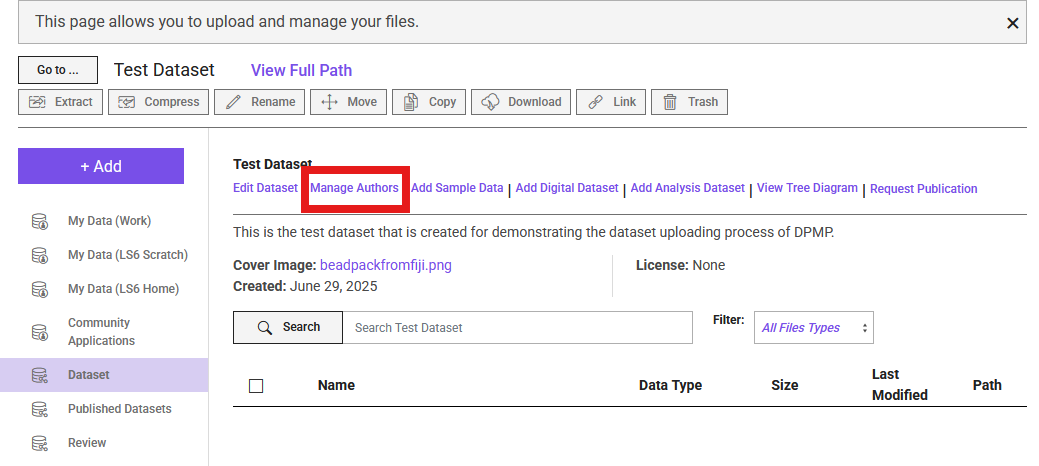
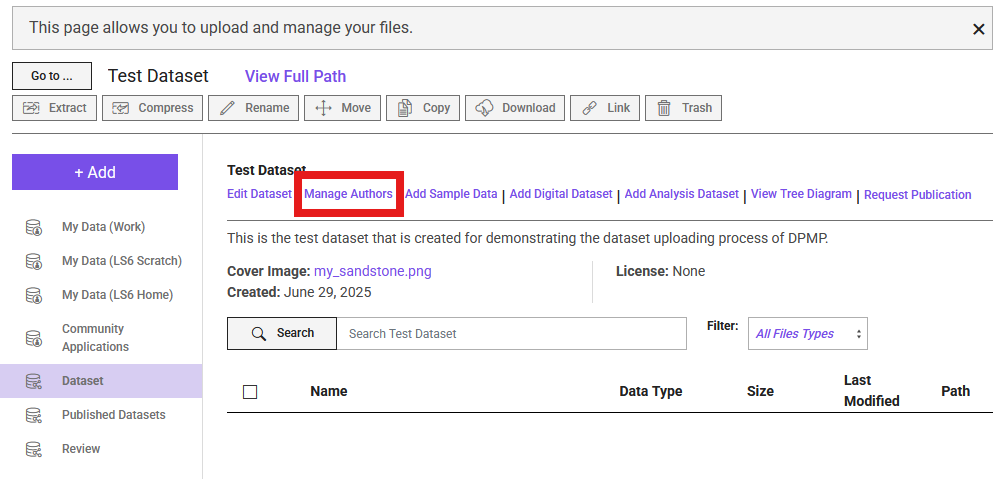
Updating pages (#19)
* changed project instances to dataset throughout different pages

* updated the data upload process screenshots

* changed project instances to dataset

diff --git a/docs/upload_data.md b/docs/upload_data.md
@@ -3,7 +3,7 @@
 This guide provides step-by-step instructions for uploading your porous media datasets to the Digital Porous Media Portal (DPM). Following these steps helps ensure your data is well-described, discoverable, and usable by the community.
 
 ## Data Model
-Before you begin uploading, it's helpful to understand that the Digital Porous Media Portal (DPMP) uses a **data model** to organize and describe datasets. This data model defines how your files, projects, and metadata are structured within the portal. **Mandatory** metadata fields are marked with asterisks (\*), indicating they are required for publication and discoverability. Some fields are highlighted in **green**—these represent updates or new fields added since the previous model. Metadata requirements may vary depending on the data type (e.g., image, raw binary, processed data). By following this model, DPMP ensures that all datasets are consistently described, making them easier to search, interpret, and reuse.
+Before you begin uploading, it's helpful to understand that the Digital Porous Media Portal (DPMP) uses a **data model** to organize and describe datasets. This data model defines how your files, datasets (previously, in Digital Rocks Portal, datasets were called projects), and metadata are structured within the portal. **Mandatory** metadata fields are marked with asterisks (\*), indicating they are required for publication and discoverability. Some fields are highlighted in **green**—these represent updates or new fields added since the previous model. Metadata requirements may vary depending on the data type (e.g., image, raw binary, processed data). By following this model, DPMP ensures that all datasets are consistently described, making them easier to search, interpret, and reuse.
 
 Below is a visual overview of the data model and its metadata requirements:
 
@@ -46,7 +46,7 @@ Now, the dataset is created and the portal navigated inside that directory! Cong
 
 ### Step 2: Add Collaborators
 
-1.  To add the project members or collaboratiors, select `Manage Authors` from the options.
+1.  To add the dataset members or collaboratiors, select `Manage Authors` from the options.
 
     ![Upload Step 4](images/upload_step4.png)
 
@@ -55,7 +55,7 @@ Now, the dataset is created and the portal navigated inside that directory! Cong
 
     ![Upload Step 5](images/upload_step5.png)
 
-3. TACC user collaborators can edit the project and upload data.
+3. TACC user collaborators can edit the dataset and upload data.
 
 ### Step 3: Add Sample Information
 
@@ -91,7 +91,7 @@ Now, the dataset is created and the portal navigated inside that directory! Cong
 ...
 <!--
 
-1.  **Project Description:** Provide a clear description of the overall project, the physical sample(s), and the experiment(s) involved. Link to relevant publications if available.
+1.  **dataset Description:** Provide a clear description of the overall dataset, the physical sample(s), and the experiment(s) involved. Link to relevant publications if available.
 2.  **File-Level Metadata:** For each uploaded data file (especially images), provide necessary details.
 3.  **Minimum Requirements:** The DPM enforces minimum metadata standards. Pay attention to warnings indicating missing required information. The more detail you provide, the more valuable your dataset becomes.
 4.  **Critical Metadata for Raw Binary Images:** Raw binary files (`.raw`, `.bin`, etc.) do not contain size or format information internally. To allow DPM to display them correctly, you **must** provide:
@@ -105,9 +105,9 @@ Now, the dataset is created and the portal navigated inside that directory! Cong
 **Step 5: Verify Previews (Especially for Volumetric Images)**
 
 1.  After the upload and metadata entry, the portal will often attempt to generate a preview (e.g., a GIF movie slicing through a 3D volume).
-2.  Check the preview on the project page. Does it look as expected?
+2.  Check the preview on the dataset page. Does it look as expected?
 3.  **Troubleshooting Low-Range Binary Data:** If you uploaded segmented data (e.g., values 0, 1, 2) as a raw binary file, the preview might initially look black or very dark. This is because the visualizer scales to the full potential range (e.g., 0-255 for 8-bit). To fix this:
-    * Navigate to the specific image file within your project.
+    * Navigate to the specific image file within your dataset.
     * Click the **"Actions"** tab/button associated with that file.
     * Select **"Edit"**.
     * Find and check the option labeled **"Use binary correction"** (or similar wording).
@@ -116,10 +116,10 @@ Now, the dataset is created and the portal navigated inside that directory! Cong
 
 **Step 6: Review and Finalize**
 
-Your uploaded data is now stored **privately** within your project.
+Your uploaded data is now stored **privately** within your dataset.
 
 * Review all uploaded files and metadata for accuracy and completeness.
-* You can continue to add/edit data and metadata while the project remains private.
+* You can continue to add/edit data and metadata while the dataset remains private.
 * Once you are satisfied and ready to make the data public, you can proceed with the publication request process (covered in the "Publish Datasets" guide - `publish.md`). Metadata cannot be easily edited by you after publication.
 
 ---

diff --git a/docs/onboarding_admin.md b/docs/onboarding_admin.md
@@ -1,41 +1,41 @@
-# Adding a New User to a Project Portal
+# Adding a New User to a Dataset Portal
 
 !!! caution "Caution"
     This section contains information for admins.
 
 
-There are several parts to adding a new user to a project portal:
+There are several parts to adding a new user to a dataset portal:
 
 ## Initial Steps for User Access
 
 **Step 1: User Request**
-* The user must submit a ticket requesting access to the project portal. This ticket will be fielded to the Principal Investigator (PI).
+* The user must submit a ticket requesting access to the dataset portal. This ticket will be fielded to the Principal Investigator (PI).
 
 **Step 2: PI Adds User in TACC Portal**
-* If the PI approves the request, they must add the user to the Project and Allocations within the TACC User Portal.
+* If the PI approves the request, they must add the user to the Dataset and Allocations within the TACC User Portal.
 * **TACC Portal Link:** [https://tacc.utexas.edu/portal/projects](https://tacc.utexas.edu/portal/projects)
 
-**Step 3: PI Approves User in Project Portal**
-* After adding the user to the Project and Allocations in the TACC Portal, the PI must then go to the Project Portal's onboarding admin section to "Approve" the new user requests.
+**Step 3: PI Approves User in Dataset Portal**
+* After adding the user to the Dataset and Allocations in the TACC Portal, the PI must then go to the Dataset Portal's onboarding admin section to "Approve" the new user requests.
 * **DPM Onboarding Admin Link:** [https://digitalporousmedia.org/workbench/onboarding/admin](https://digitalporousmedia.org/workbench/onboarding/admin)
 
 ## Subsequent User Administration Actions (Onboarding Admin Dashboard)
 
-Once a user has requested access, their status and onboarding progress can be managed in the project portal onboarding admin dashboard.
+Once a user has requested access, their status and onboarding progress can be managed in the dataset portal onboarding admin dashboard.
 
 * **Awaiting Approval:** Users who have requested access and are awaiting PI approval for onboarding will appear in the dashboard.
     * ![Users awaiting approval](images/onboarding1.png)
 * **Approving a User:**
     * Clicking the "Approve" button next to a user's request will send an email to the user. This email asks them to verify their request for access to the specific portal.
-    * Once the user responds to the verification email, the Project Portal will attempt to execute the onboarding workflow for that user.
+    * Once the user responds to the verification email, the Dataset Portal will attempt to execute the onboarding workflow for that user.
 * **Successfully Onboarded Users:** Users who have been successfully processed for onboarding will be displayed accordingly.
     * ![Successfully onboarded users](images/onboarding2.png)
 * **Handling Onboarding Errors:**
-    * If a user fails a check during the onboarding process (e.g., Project Membership check, Allocations check, or System Access check) *after* PI approval, a log of the error will be available.
+    * If a user fails a check during the onboarding process (e.g., Dataset Membership check, Allocations check, or System Access check) *after* PI approval, a log of the error will be available.
     * These logs can be accessed by clicking the "view log" link next to each step in the procedure for that user.
         * ![Error log access](images/onboarding3.png)
 * **Manual Step Management (Reset/Skip):**
     * If a user is stuck on a specific onboarding step, the PI has options:
-        * **Reset:** Clicking the "Reset" link next to the failing step will attempt to re-run that step. This is often useful if a blocking issue (like missing Project/Allocation assignment or delayed System Access key generation) has since been resolved.
+        * **Reset:** Clicking the "Reset" link next to the failing step will attempt to re-run that step. This is often useful if a blocking issue (like missing Dataset/Allocation assignment or delayed System Access key generation) has since been resolved.
         * **Skip:** If an onboarding step is blocking the user and the PI is confident in allowing the user access despite the error, they can click the "Skip" link to bypass that particular step in the workflow.
     * **Note:** Any users for whom steps were "skipped" should be investigated to identify and resolve the underlying blocker. Once the blockers are removed, "Resetting" the skipped step should allow it to complete successfully.

diff --git a/docs/community_data.md b/docs/community_data.md
@@ -7,7 +7,7 @@ Within each Jupyter Hub session, users may locally modify copies of the communit
 
 ## How Do Admins Move the Community Data?
 
-The Community Applications project is a special type of project designed for centralized data sharing. Only authorized administrators can add data to the Community Applications project. You can skip this part if you are a regular user.
+The Community Applications dataset is a special type of dataset designed for centralized data sharing. Only authorized administrators can add data to the Community Applications dataset. You can skip this part if you are a regular user.
 
 To upload community data, admins should follow these steps:
 
@@ -26,16 +26,16 @@ To upload community data, admins should follow these steps:
     /// admonition | Warning
             type: caution 
 
-        Data cannot be uploaded directly to the "Community Applications" project exposed under `Data Files > Community Applications`. Instead, admins must use the special project accessible only to admin users under `Data Files > Datasets > Community Applications`.
+        Data cannot be uploaded directly to the "Community Applications" dataset exposed under `Data Files > Community Applications`. Instead, admins must use the special dataset accessible only to admin users under `Data Files > Datasets > Community Applications`.
     ///
 
 3. **Data Visibility:**  
-   Once an approved admin uploads data into the special "Community Applications" project the data will become visible (read-only) to all users under the path `Data Files > Community Applications`.
+   Once an approved admin uploads data into the special "Community Applications" dataset the data will become visible (read-only) to all users under the path `Data Files > Community Applications`.
 
 4. **JupyterHub Integration:**  
    There is no conflict between having an active JupyterHub session and uploading data to Community Applications. Users in JupyterHub will see new data appear under the "Community" folder once it is properly uploaded by an admin. If the new data does not appear automatically, users can click the refresh icon (small circular arrow) in the Jupyter file browser to update the file listing.
 
 5. **Concurrent Uploads:**  
-   Multiple admins can upload data to the Community Applications project simultaneously without conflict.
+   Multiple admins can upload data to the Community Applications dataset simultaneously without conflict.
 
 If you encounter any issues or require additional permissions, please contact the DPM team.

diff --git a/docs/about_us.md b/docs/about_us.md
@@ -40,7 +40,7 @@ Hasan Khan, Javier Estrada Santos, Anuradha Radhakrishnan, Ankita Singh, Keith S
 DPM is proud to be an active participant in the broader research data ecosystem:
 
 
-* An affiliated project within **EarthCube**, enhancing access to geoscience data.
+* An affiliated dataset within **EarthCube**, enhancing access to geoscience data.
 * A member of the **EarthCube Council of Data Facilities**.
 * Registered in the **Registry of Research Data Repositories (re3data.org)**.
 * Recognized as a recommended data repository by the **Geosciences Data Journal**.
